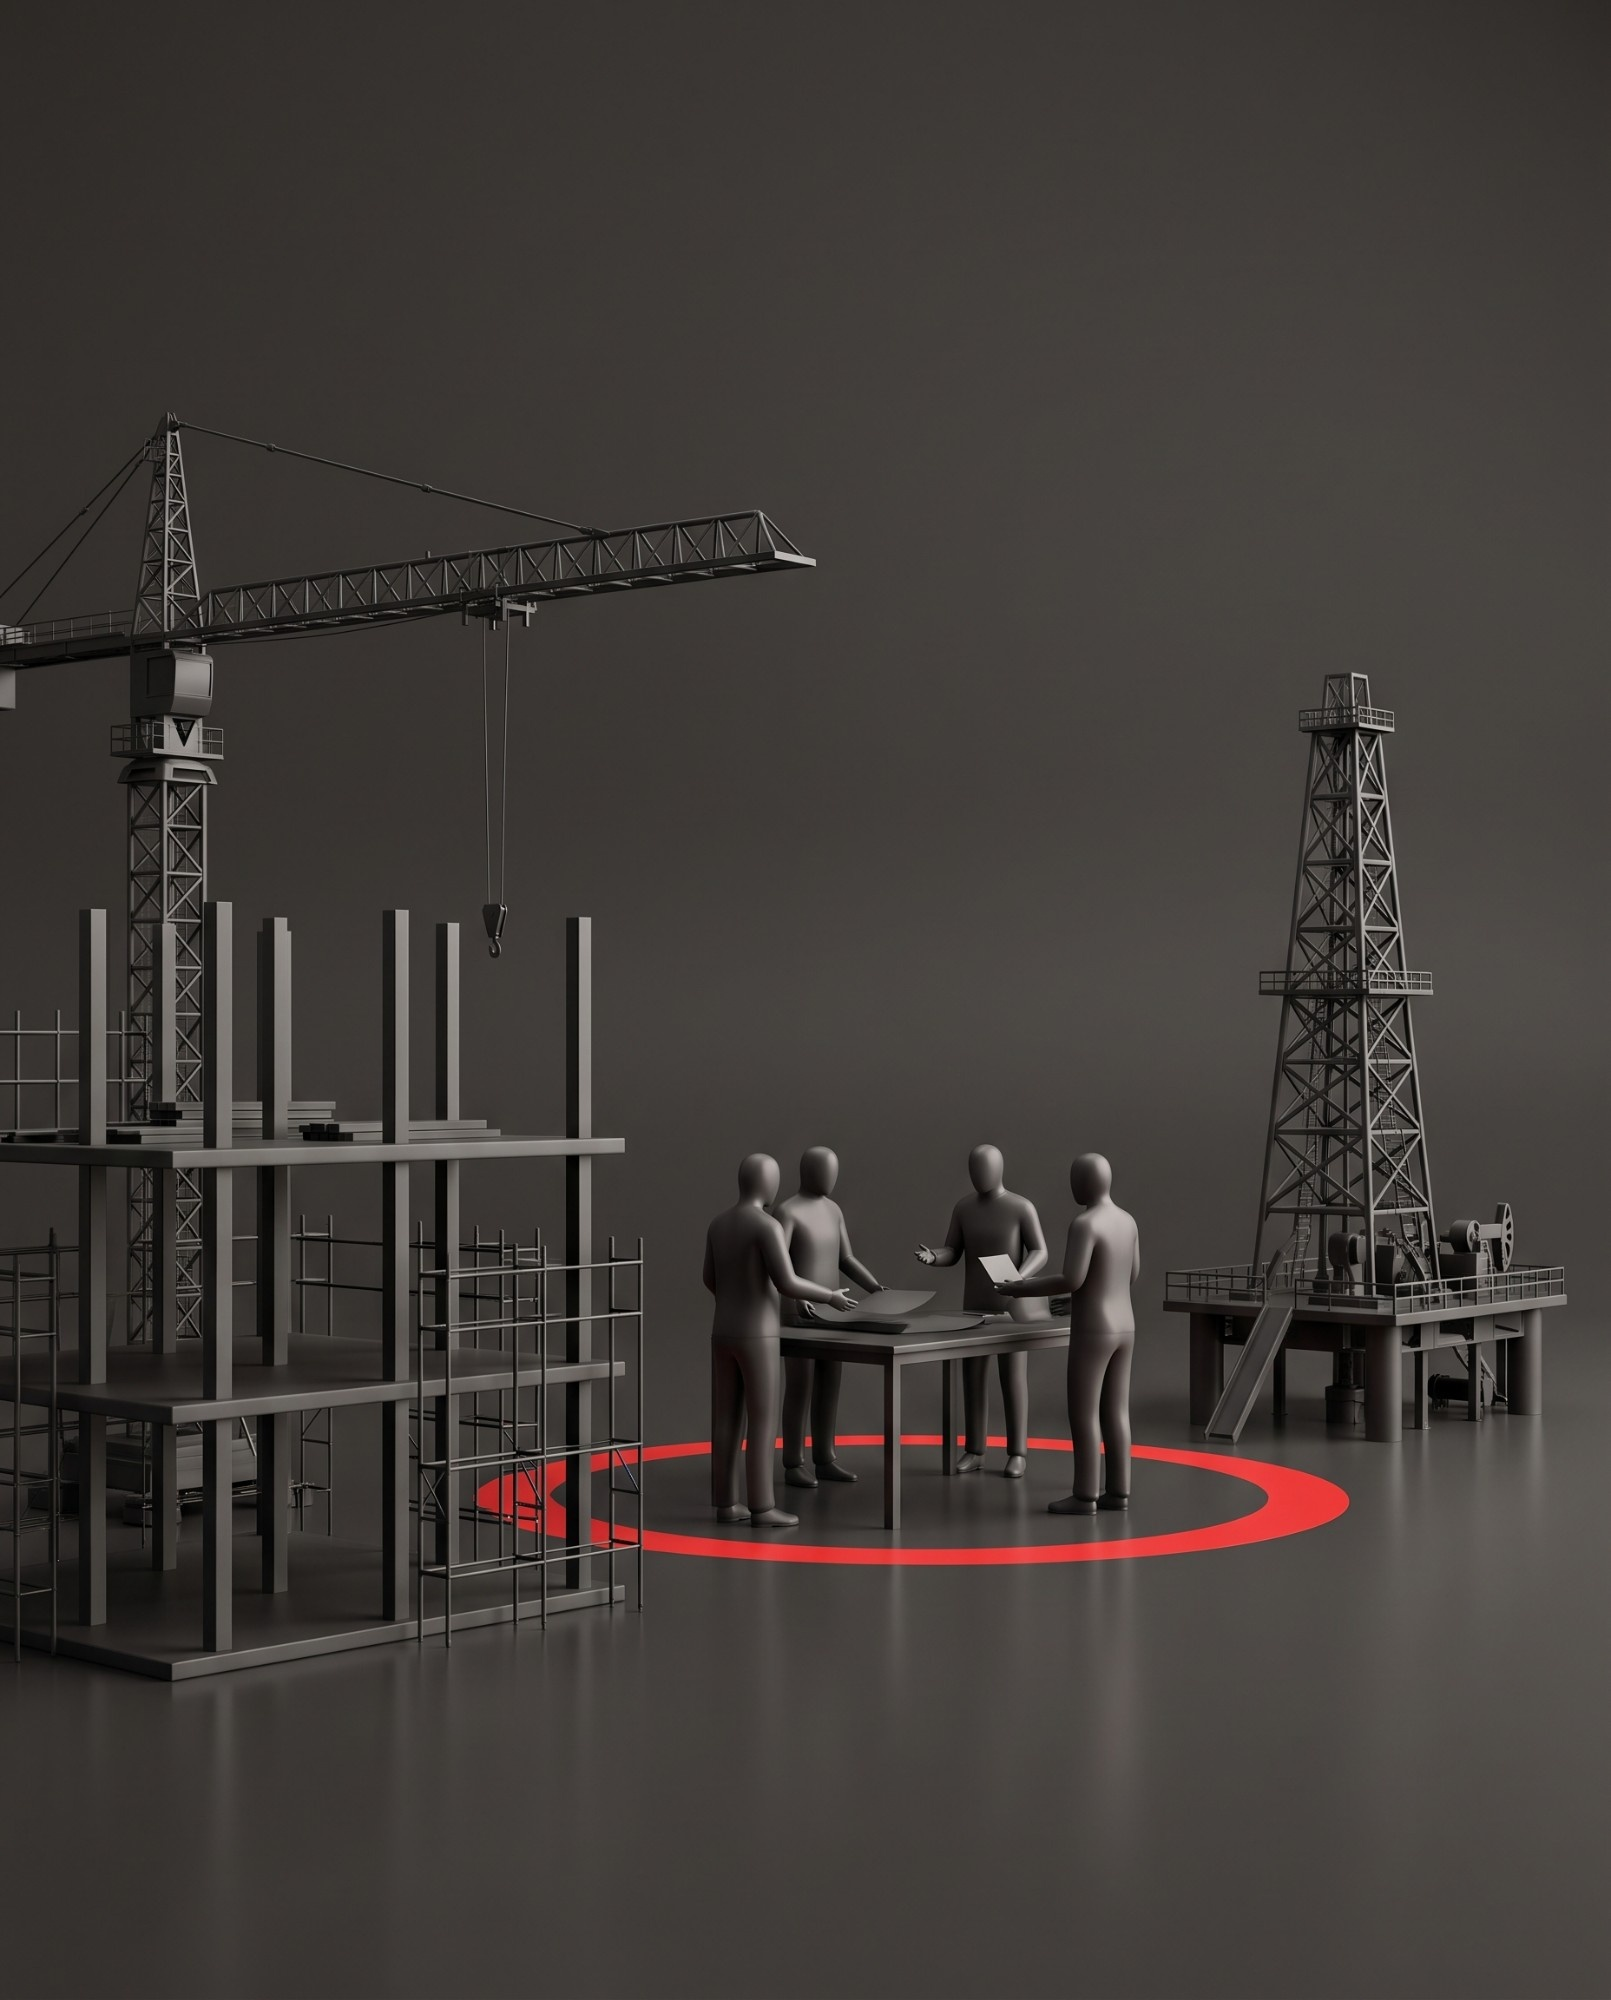
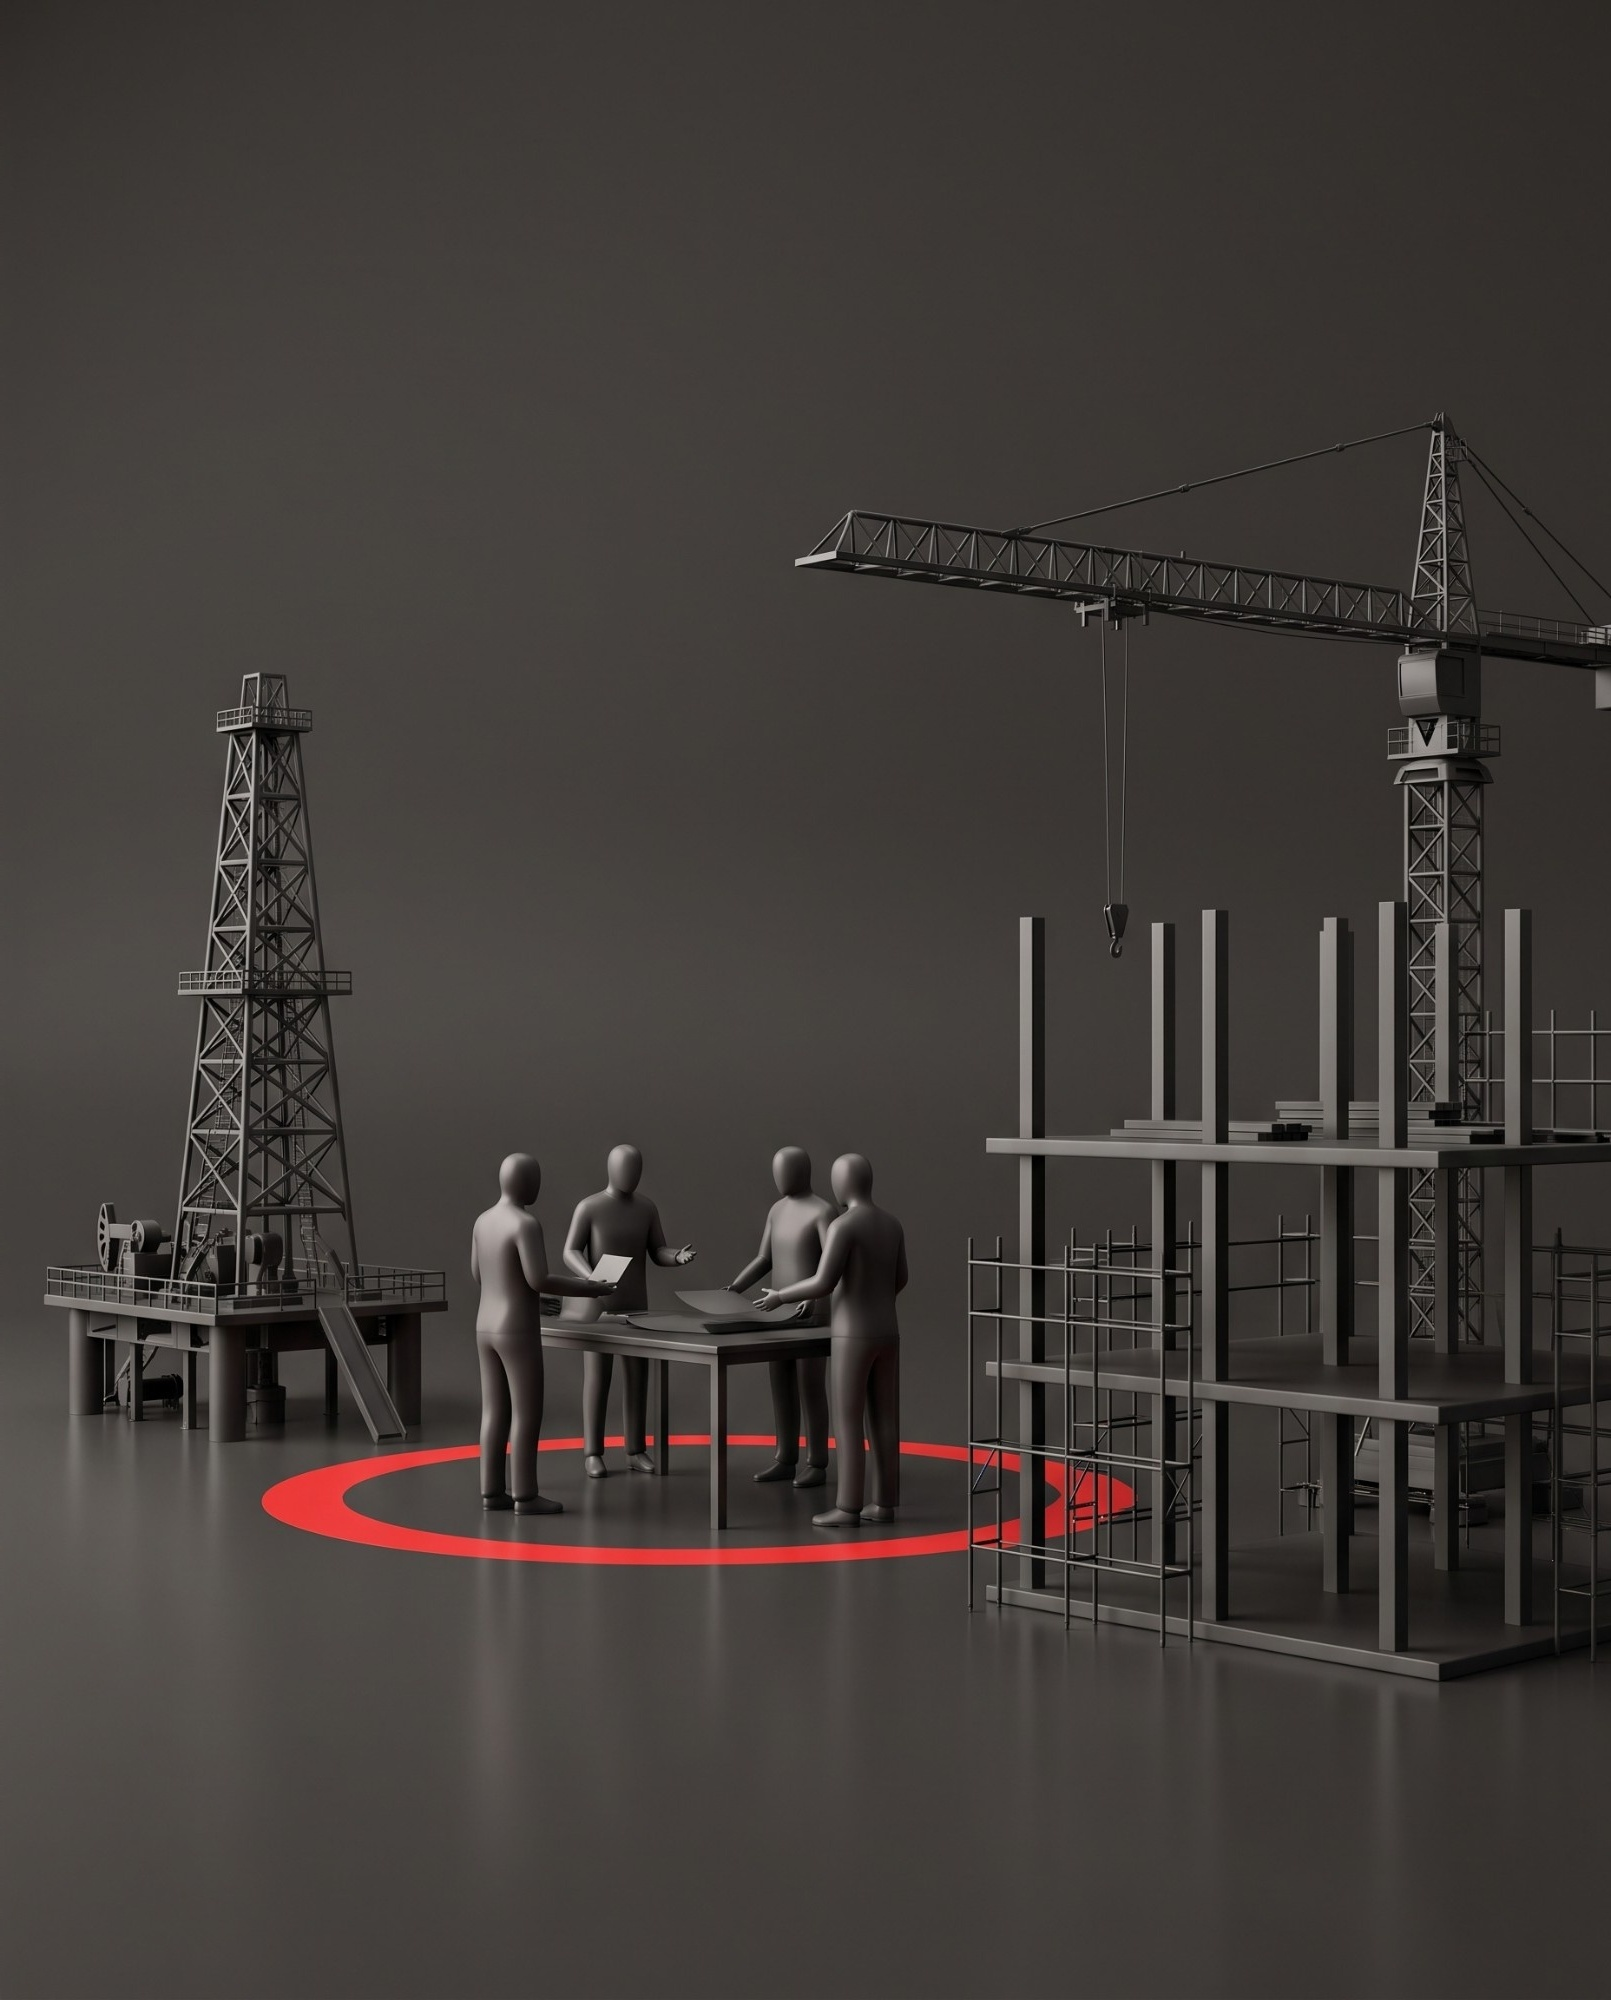
social: blur off by default
It earns nothing on a frame briefed to keep its top third plain — it
softens detail that is not there, and on a sharp picture the softened
band is the one thing that announces a treatment was applied. It stays
as a parameter for a frame that turns up busy where it should not be.

Two consequences, both fixed rather than papered over. The dark band now
pulls to 32 instead of 44, because without the blur a bright thin
structure reads straight through a shallow one. And the three-scenes
frame is mirrored in both sets: its crane mast stood exactly where the
list numerals go, which is a composition problem the scrim should not be
asked to solve.

Claude-Session: https://claude.ai/code/session_01Dittaoy8DRLNsQGyiPx6fs

Changed region(s): [[0.0, 0.186, 1.0, 0.961], [0.6828, 0.434, 0.7138, 0.465], [0.031, 0.248, 0.0621, 0.279]]

diff --git a/social/explore.py b/social/explore.py
@@ -429,16 +429,21 @@ E_DARK_SUB = (158, 152, 145)
 E_DARK_RED = (198, 40, 58)     # the oxblood would vanish into the charcoal
 
 
-def e_scrim(img, bottom, blur=16, target=226, feather=230, dark=False):
+def e_scrim(img, bottom, blur=0, target=226, feather=230, dark=False):
     """
     Make the headline readable whatever the picture does under it.
 
-    Two things at once, both faded out rather than switched off. The top
-    of the frame is blurred, which kills detail without killing colour,
-    and it is lifted toward white by as much as that particular frame
-    needs — a bright studio backdrop barely moves, a busy or dark one
-    moves a long way. Below the type the treatment falls away over a
-    couple of hundred pixels on a curve, so there is no edge to see.
+    The strip under the type is moved toward white — or, in the dark
+    tone, toward charcoal — by as much as that particular frame needs. A
+    clean studio backdrop barely moves; a busy or badly exposed one moves
+    a long way. Below the type it falls away over a couple of hundred
+    pixels on a curve, so there is no edge to see.
+
+    `blur` defaults off. It was on at first and it earns nothing on a
+    frame briefed to keep its top third plain: it only softens detail
+    that is not there, and on a sharp picture the softened band is the
+    one thing that announces a treatment was applied. It stays as a
+    parameter for a frame that turns up busy where it should not be.
 
     The inverse of what the dark system did: there the whole frame was
     pulled down to meet the type, here only the strip under the type
@@ -448,8 +453,11 @@ def e_scrim(img, bottom, blur=16, target=226, feather=230, dark=False):
     treated = img.filter(ImageFilter.GaussianBlur(blur))
     if dark:
         # Same mechanism, opposite direction: a charcoal band over the
-        # head of the frame, deep enough that parchment type holds.
-        pull = min(0.94, max(0.0, (mean - 44) / max(1.0, mean)))
+        # head of the frame. It goes deeper than the light one has to,
+        # because without the blur a bright thin structure — a crane mast
+        # — reads straight through an shallow band and lands under the
+        # list.
+        pull = min(0.94, max(0.0, (mean - 32) / max(1.0, mean)))
         treated = Image.blend(treated, Image.new("RGB", img.size, (24, 23, 22)), pull)
     elif mean < target:
         lift = min(0.88, (target - mean) / max(1.0, 255 - mean))
